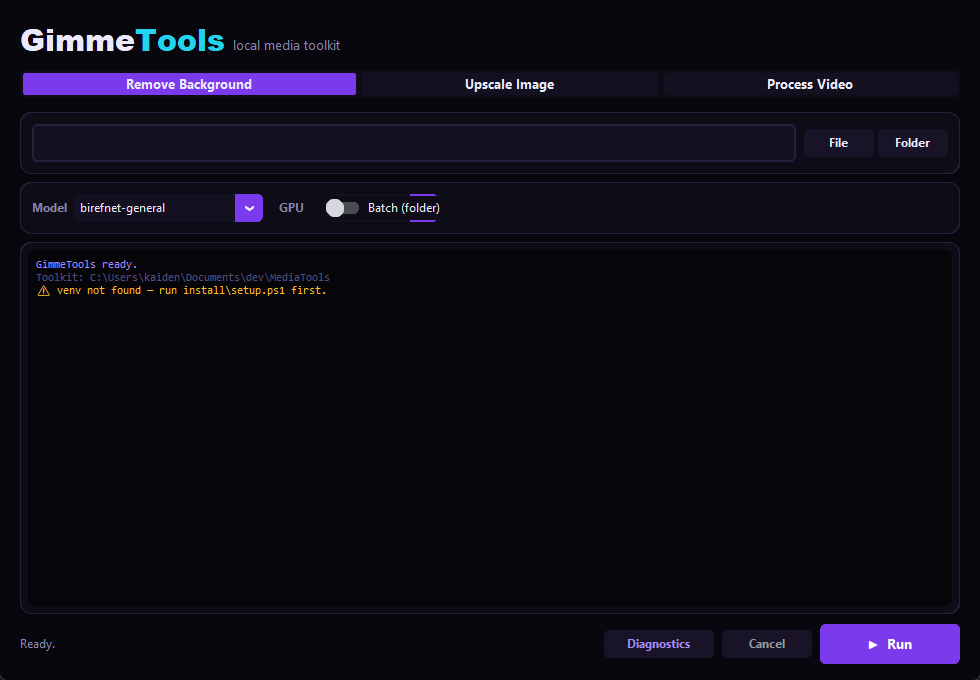
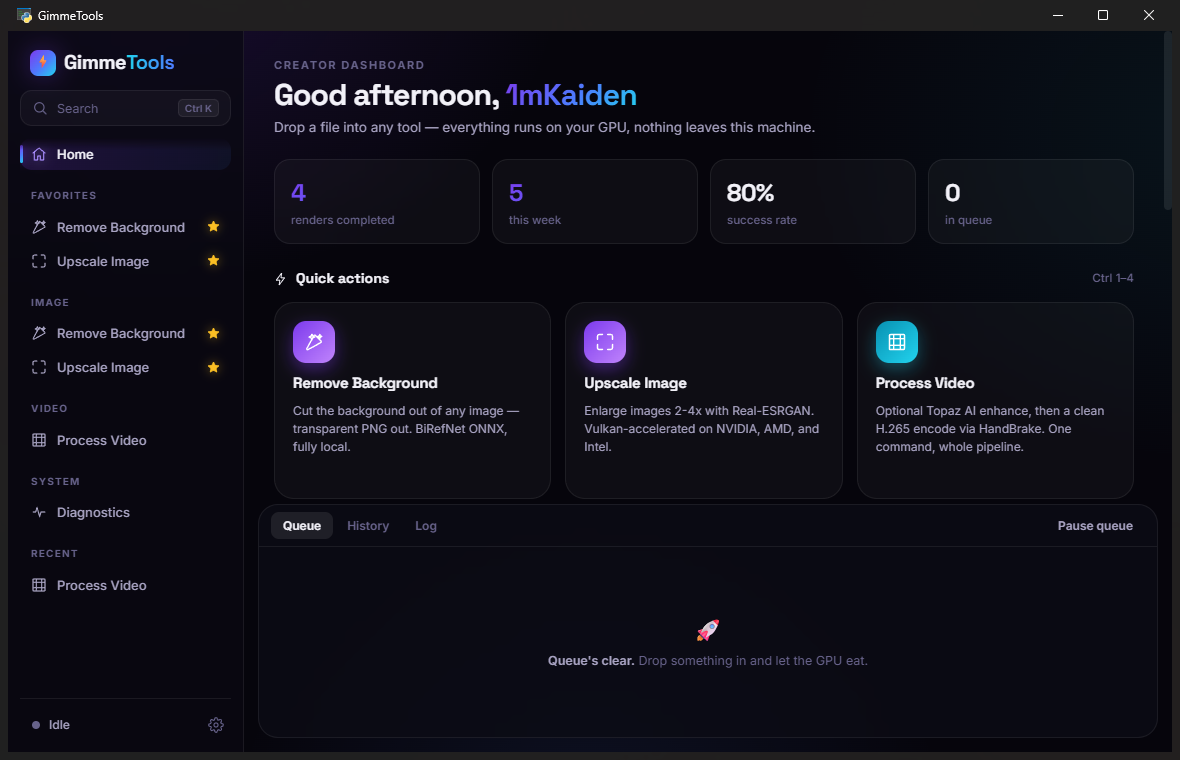
docs: real app screenshots + BOM-tolerant JSON state loading
- screenshots/ refreshed from the actual running app (Win32
  PrintWindow on the WebView2 window): creator dashboard hero,
  command palette, tool workspace, onboarding; README gets a
  gallery row
- fix surfaced by the capture work: JSON state files saved with a
  UTF-8 BOM (Notepad-style hand edits, external writers) were
  silently treated as empty/default. All state loaders — job
  history, presets, ui-state, app settings, and scripts/lib
  config.json — now read utf-8-sig
- DESIGN_REVIEW / POLISH_PHASE screenshot notes updated

diff --git a/app/services/presets.py b/app/services/presets.py
@@ -24,7 +24,8 @@ class PresetStore:
 
     def _load(self) -> list[dict]:
         try:
-            data = json.loads(self._path.read_text(encoding="utf-8"))
+            # utf-8-sig: tolerate a BOM from hand-edits/external writers
+            data = json.loads(self._path.read_text(encoding="utf-8-sig"))
             return data if isinstance(data, list) else []
         except Exception:
             return []
@@ -89,7 +90,7 @@ class PresetStore:
         return len(presets)
 
     def import_from(self, file_path: Path) -> int:
-        payload = json.loads(file_path.read_text(encoding="utf-8"))
+        payload = json.loads(file_path.read_text(encoding="utf-8-sig"))
         if payload.get("format") != _FORMAT:
             raise ValueError("not a GimmeTools preset file")
         count = 0

diff --git a/app/services/settings.py b/app/services/settings.py
@@ -25,7 +25,8 @@ class UiState:
 
     def _load(self) -> dict:
         try:
-            data = json.loads(self._path.read_text(encoding="utf-8"))
+            # utf-8-sig: tolerate a BOM from hand-edits/external writers
+            data = json.loads(self._path.read_text(encoding="utf-8-sig"))
             return data if isinstance(data, dict) else {}
         except Exception:
             return {}
@@ -94,7 +95,7 @@ class AppSettings:
 
     def _read(self) -> dict:
         try:
-            return json.loads(self._path.read_text(encoding="utf-8"))
+            return json.loads(self._path.read_text(encoding="utf-8-sig"))
         except Exception:
             return {}
 

diff --git a/scripts/lib/config.py b/scripts/lib/config.py
@@ -91,7 +91,9 @@ class Config:
             )
             return Config(_deep_merge(DEFAULTS, {}))
 
-        with config_path.open(encoding="utf-8") as fh:
+        # utf-8-sig: Notepad and friends may save config.json with a BOM;
+        # a silent fall-back-to-defaults here would be very confusing.
+        with config_path.open(encoding="utf-8-sig") as fh:
             user_data = json.load(fh)
 
         return Config(_deep_merge(DEFAULTS, user_data))

diff --git a/app/services/jobs.py b/app/services/jobs.py
@@ -284,7 +284,8 @@ class JobQueue:
 
     def _load_history(self) -> list[dict]:
         try:
-            data = json.loads(self._history_path.read_text(encoding="utf-8"))
+            # utf-8-sig: tolerate a BOM from hand-edits/external writers
+            data = json.loads(self._history_path.read_text(encoding="utf-8-sig"))
             return data if isinstance(data, list) else []
         except Exception:
             return []

diff --git a/docs/DESIGN_REVIEW.md b/docs/DESIGN_REVIEW.md
@@ -4,12 +4,13 @@ Scored against the bar of a funded creator product (Arc / Linear / Raycast / Dis
 CapCut / Spotify). Anything below 9 got redesigned in the polish pass — the fixes are
 documented per screen and in [POLISH_PHASE.md](POLISH_PHASE.md).
 
-> **On screenshots:** the preview panel's screenshot capture was non-functional in this
-> environment for the entire polish session (capture timeouts while the page itself
-> answered DOM queries instantly). Verification was done with structural and
-> computed-style assertions against the live page instead — every "after" claim below
-> was machine-checked, not eyeballed. To see it yourself: `GimmeTools.bat` or
-> `dist\GimmeTools\GimmeTools.exe`.
+> **On screenshots:** the browser-preview capture tool was non-functional during the
+> polish session, so verification was done with structural and computed-style
+> assertions against the live page. "After" screenshots were subsequently captured
+> from the **real running app** (Win32 `PrintWindow` on the actual WebView2 window):
+> see [`screenshots/gimmetools.png`](../screenshots/gimmetools.png) (dashboard),
+> [`palette.png`](../screenshots/palette.png), [`tool.png`](../screenshots/tool.png),
+> and [`onboarding.png`](../screenshots/onboarding.png).
 
 ---
 

diff --git a/docs/POLISH_PHASE.md b/docs/POLISH_PHASE.md
@@ -79,8 +79,11 @@ preview environment — see the note in DESIGN_REVIEW.md):
 
 ## Not done (and why)
 
-- **Before/after screenshots** — capture tooling was non-functional this session;
-  structural verification substituted. Worth re-running on a healthy environment.
+- ~~**Before/after screenshots**~~ — **done after the fact**: captured from the real
+  running app via Win32 `PrintWindow` (see `screenshots/` — dashboard, palette, tool
+  workspace, onboarding). The capture exercise also surfaced and fixed a real bug:
+  JSON state files written with a UTF-8 BOM (Notepad-style) were silently treated as
+  empty; all loaders now read `utf-8-sig`.
 - **Custom titlebar/frameless window** — native frame kept deliberately: snap layouts,
   accessibility, and zero custom window-management bugs beat the aesthetic gain for now.
 - **Drag-to-reorder queue rows** — hover buttons + context menu cover it; full DnD

diff --git a/README.md b/README.md
@@ -10,7 +10,15 @@ A clean cyberpunk desktop toolkit for the three things you keep needing — **re
 ![Platform](https://img.shields.io/badge/platform-Windows-22d3ee?style=for-the-badge)
 ![Version](https://img.shields.io/badge/version-2.0-8b5cf6?style=for-the-badge)
 
-<img src="screenshots/gimmetools.png" width="780" alt="GimmeTools">
+<img src="screenshots/gimmetools.png" width="780" alt="GimmeTools — creator dashboard">
+
+<table>
+  <tr>
+    <td><img src="screenshots/palette.png" alt="Command palette (Ctrl K)"></td>
+    <td><img src="screenshots/tool.png" alt="Tool workspace"></td>
+    <td><img src="screenshots/onboarding.png" alt="First-run onboarding"></td>
+  </tr>
+</table>
 
 </div>
 
